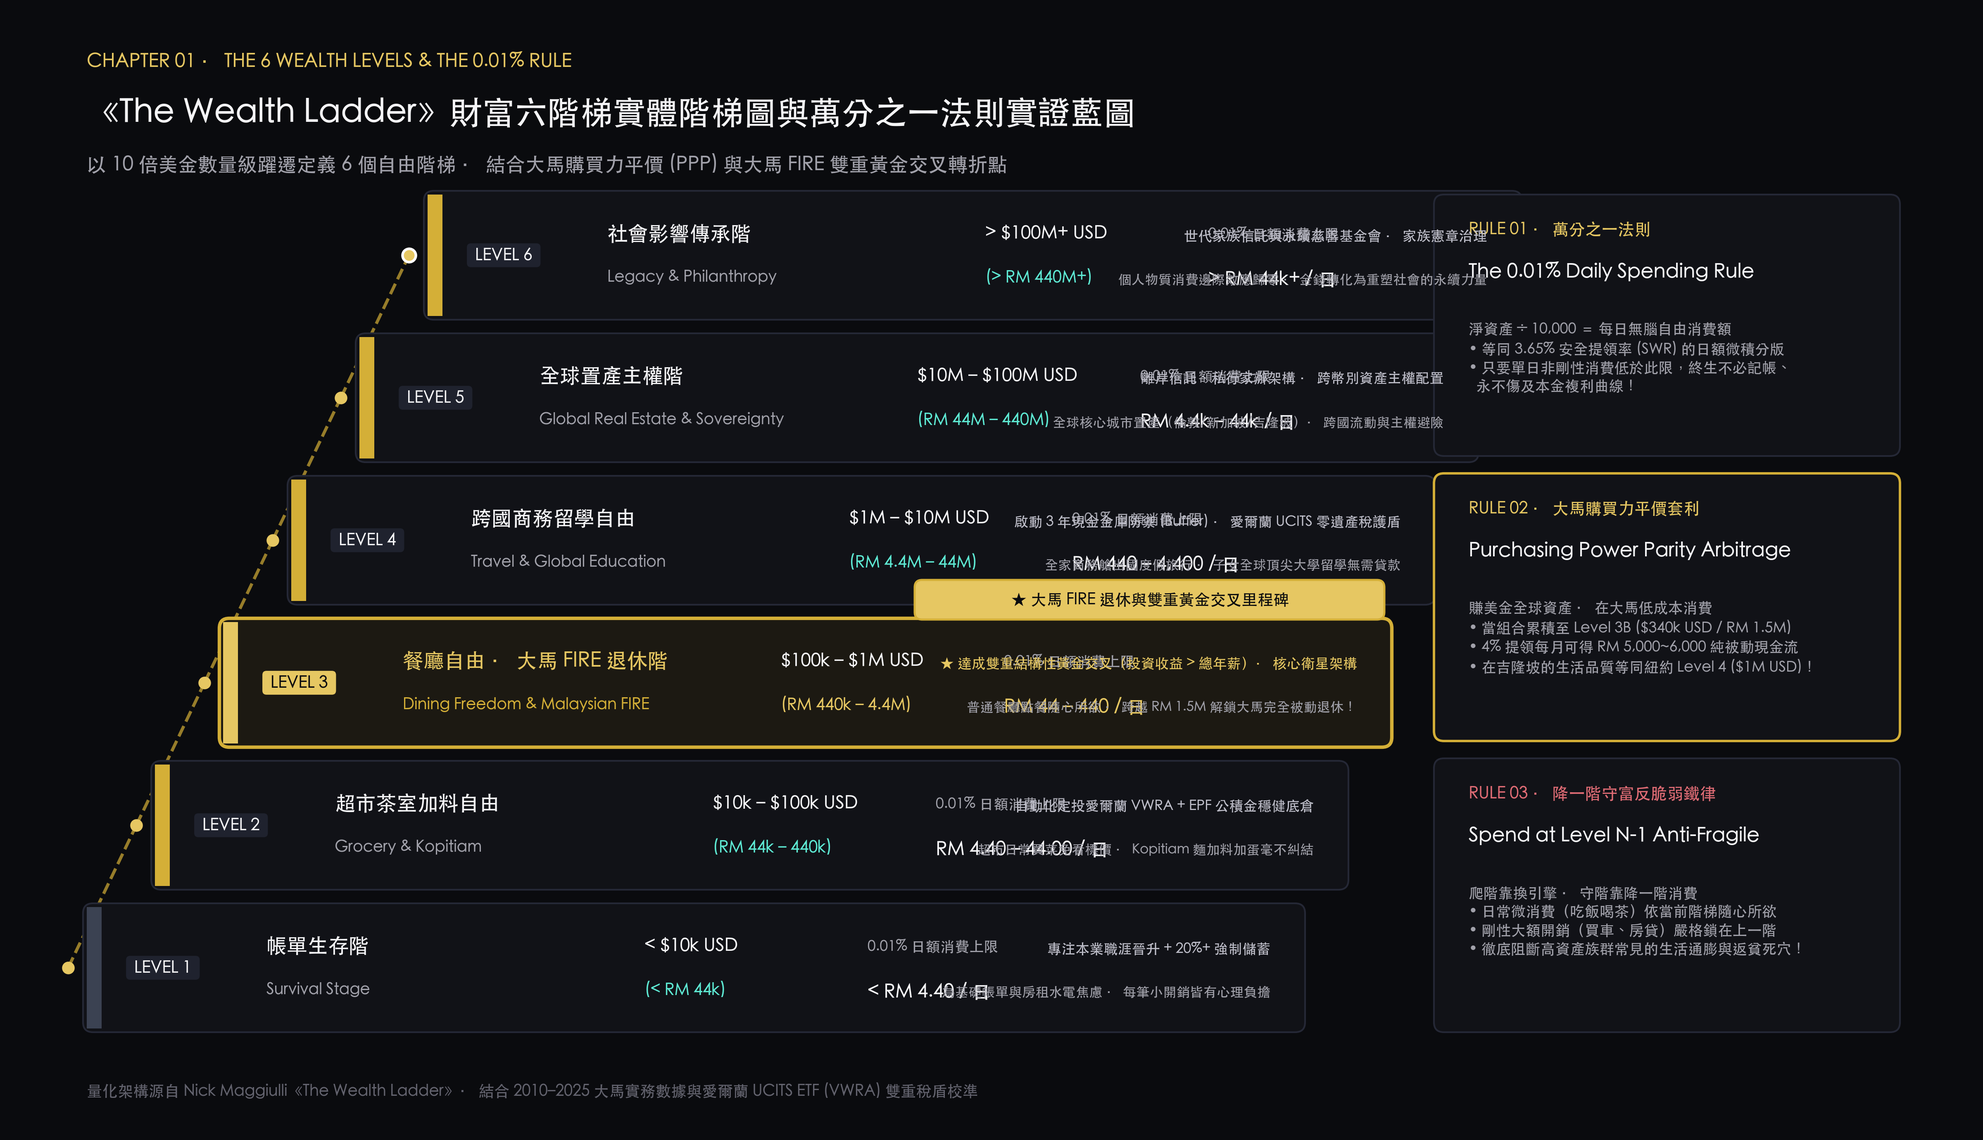
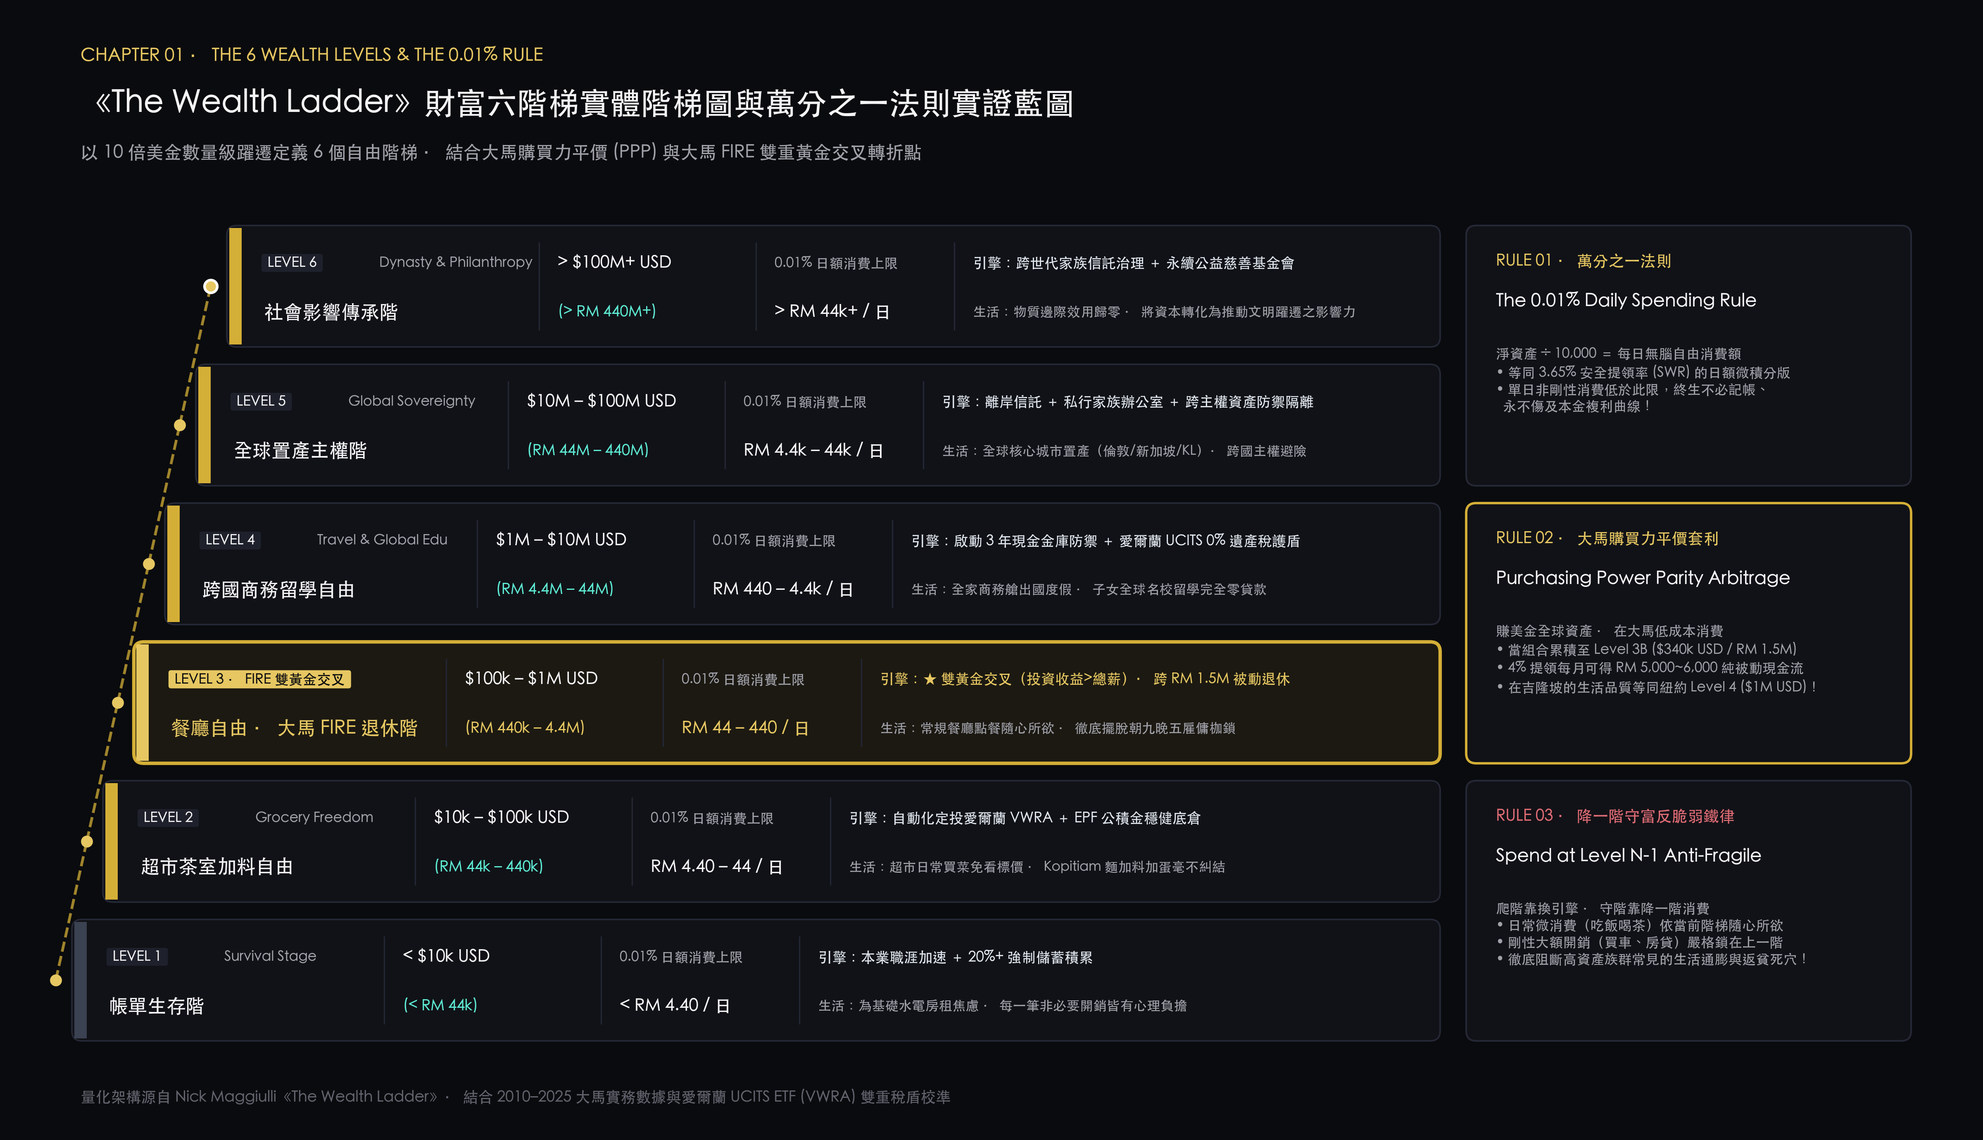
fix(charts): resolve all text overlaps and coordinate collisions in wealth ladder chart 00

Changed region(s): [[0.0312, 0.0312, 0.9688, 0.9659], [0.3125, 0.8725, 0.3438, 0.9036]]

diff --git a/generate_charts.py b/generate_charts.py
@@ -103,218 +103,194 @@ def generate_chart_00():
     ax.axis("off")
 
     # 1. Editorial Header
-    ax.text(0.7, 8.65, "CHAPTER 01 · THE 6 WEALTH LEVELS & THE 0.01% RULE", color=EMERALD_LIGHT, fontsize=11, fontweight="bold")
-    ax.text(0.7, 8.20, "《The Wealth Ladder》財富六階梯實體階梯圖與萬分之一法則實證藍圖", color=TEXT_MAIN, fontsize=19, fontweight="bold")
-    ax.text(0.7, 7.82, "以 10 倍美金數量級躍遷定義 6 個自由階梯 · 結合大馬購買力平價 (PPP) 與大馬 FIRE 雙重黃金交叉轉折點", color=TEXT_MUTED, fontsize=11.5)
+    ax.text(0.65, 8.70, "CHAPTER 01 · THE 6 WEALTH LEVELS & THE 0.01% RULE", color=EMERALD_LIGHT, fontsize=10.5, fontweight="bold")
+    ax.text(0.65, 8.28, "《The Wealth Ladder》財富六階梯實體階梯圖與萬分之一法則實證藍圖", color=TEXT_MAIN, fontsize=18, fontweight="bold")
+    ax.text(0.65, 7.92, "以 10 倍美金數量級躍遷定義 6 個自由階梯 · 結合大馬購買力平價 (PPP) 與大馬 FIRE 雙重黃金交叉轉折點", color=TEXT_MUTED, fontsize=10.5)
 
     # 2. Six Stepped Horizontal Terraces (Grand Ascending Staircase)
-    steps_data = [
+    steps = [
         {
-            "num": "LEVEL 1",
-            "title_zh": "帳單生存階",
-            "title_en": "Survival Stage",
-            "usd": "< $10k USD",
-            "myr": "< RM 44k",
+            "badge": "LEVEL 1",
+            "title_zh": "帳單生存階", "title_en": "Survival Stage",
+            "usd": "< $10k USD", "myr": "< RM 44k",
             "daily": "< RM 4.40 / 日",
-            "lifestyle": "為基礎帳單與房租水電焦慮 · 每筆小開銷皆有心理負擔",
-            "engine": "專注本業職涯晉升 + 20%+ 強制儲蓄",
-            "pitfall": "忌本金小時天天看盤當沖賭翻倍",
-            "y": 0.90, "x_start": 0.70, "width": 9.8,
-            "is_l3": False
+            "engine": "本業職涯加速 ＋ 20%+ 強制儲蓄積累",
+            "lifestyle": "為基礎水電房租焦慮 · 每一筆非必要開銷皆有心理負擔",
+            "x0": 0.60, "y0": 0.82, "w": 11.00, "is_l3": False
         },
         {
-            "num": "LEVEL 2",
-            "title_zh": "超市茶室加料自由",
-            "title_en": "Grocery & Kopitiam",
-            "usd": "$10k – $100k USD",
-            "myr": "RM 44k – 440k",
-            "daily": "RM 4.40 – 44.00 / 日",
+            "badge": "LEVEL 2",
+            "title_zh": "超市茶室加料自由", "title_en": "Grocery Freedom",
+            "usd": "$10k – $100k USD", "myr": "RM 44k – 440k",
+            "daily": "RM 4.40 – 44 / 日",
+            "engine": "自動化定投愛爾蘭 VWRA ＋ EPF 公積金穩健底倉",
             "lifestyle": "超市日常買菜免看標價 · Kopitiam 麵加料加蛋毫不糾結",
-            "engine": "自動化定投愛爾蘭 VWRA + EPF 公積金穩健底倉",
-            "pitfall": "忌沉迷高收益資金盤與借貸炒小盤股",
-            "y": 2.05, "x_start": 1.25, "width": 9.6,
-            "is_l3": False
+            "x0": 0.85, "y0": 1.94, "w": 10.75, "is_l3": False
         },
         {
-            "num": "LEVEL 3",
-            "title_zh": "餐廳自由 · 大馬 FIRE 退休階",
-            "title_en": "Dining Freedom & Malaysian FIRE",
-            "usd": "$100k – $1M USD",
-            "myr": "RM 440k – 4.4M",
+            "badge": "LEVEL 3 · FIRE 雙黃金交叉",
+            "title_zh": "餐廳自由 · 大馬 FIRE 退休階", "title_en": "Malaysian FIRE & Dining",
+            "usd": "$100k – $1M USD", "myr": "RM 440k – 4.4M",
             "daily": "RM 44 – 440 / 日",
-            "lifestyle": "普通餐廳點餐隨心所欲 · 跨越 RM 1.5M 解鎖大馬完全被動退休！",
-            "engine": "★ 達成雙重結構性黃金交叉（投資收益 > 總年薪）· 核心衛星架構",
-            "pitfall": "忌過早買豪車豪宅被巨額長期房貸鎖死",
-            "y": 3.20, "x_start": 1.80, "width": 9.4,
-            "is_l3": True
+            "engine": "★ 雙黃金交叉（投資收益>總薪）· 跨 RM 1.5M 被動退休",
+            "lifestyle": "常規餐廳點餐隨心所欲 · 徹底擺脫朝九晚五雇傭枷鎖",
+            "x0": 1.10, "y0": 3.06, "w": 10.50, "is_l3": True
         },
         {
-            "num": "LEVEL 4",
-            "title_zh": "跨國商務留學自由",
-            "title_en": "Travel & Global Education",
-            "usd": "$1M – $10M USD",
-            "myr": "RM 4.4M – 44M",
-            "daily": "RM 440 – 4,400 / 日",
-            "lifestyle": "全家商務艙出國度假旅行 · 子女全球頂尖大學留學無需貸款",
-            "engine": "啟動 3 年現金金庫防禦 (Buffer) · 愛爾蘭 UCITS 零遺產稅護盾",
-            "pitfall": "忌盲目開槓桿重押、熊市恐慌砍在阿呆谷",
-            "y": 4.35, "x_start": 2.35, "width": 9.2,
-            "is_l3": False
+            "badge": "LEVEL 4",
+            "title_zh": "跨國商務留學自由", "title_en": "Travel & Global Edu",
+            "usd": "$1M – $10M USD", "myr": "RM 4.4M – 44M",
+            "daily": "RM 440 – 4.4k / 日",
+            "engine": "啟動 3 年現金金庫防禦 ＋ 愛爾蘭 UCITS 0% 遺產稅護盾",
+            "lifestyle": "全家商務艙出國度假 · 子女全球名校留學完全零貸款",
+            "x0": 1.35, "y0": 4.18, "w": 10.25, "is_l3": False
         },
         {
-            "num": "LEVEL 5",
-            "title_zh": "全球置產主權階",
-            "title_en": "Global Real Estate & Sovereignty",
-            "usd": "$10M – $100M USD",
-            "myr": "RM 44M – 440M",
+            "badge": "LEVEL 5",
+            "title_zh": "全球置產主權階", "title_en": "Global Sovereignty",
+            "usd": "$10M – $100M USD", "myr": "RM 44M – 440M",
             "daily": "RM 4.4k – 44k / 日",
-            "lifestyle": "全球核心城市置產（倫敦/新加坡/吉隆坡）· 跨國流動與主權避險",
-            "engine": "離岸信託、私行家辦架構 · 跨幣別資產主權配置",
-            "pitfall": "忌盲目投資親友未上市實體專案爆雷",
-            "y": 5.50, "x_start": 2.90, "width": 9.0,
-            "is_l3": False
+            "engine": "離岸信託 ＋ 私行家族辦公室 ＋ 跨主權資產防禦隔離",
+            "lifestyle": "全球核心城市置產（倫敦/新加坡/KL）· 跨國主權避險",
+            "x0": 1.60, "y0": 5.30, "w": 10.00, "is_l3": False
         },
         {
-            "num": "LEVEL 6",
-            "title_zh": "社會影響傳承階",
-            "title_en": "Legacy & Philanthropy",
-            "usd": "> $100M+ USD",
-            "myr": "> RM 440M+",
+            "badge": "LEVEL 6",
+            "title_zh": "社會影響傳承階", "title_en": "Dynasty & Philanthropy",
+            "usd": "> $100M+ USD", "myr": "> RM 440M+",
             "daily": "> RM 44k+ / 日",
-            "lifestyle": "個人物質消費邊際效應歸零 · 金錢轉化為重塑社會的永續力量",
-            "engine": "世代家族信託與永續慈善基金會 · 家族憲章治理",
-            "pitfall": "忌缺乏家族憲章導致遺產爭端富不過三代",
-            "y": 6.65, "x_start": 3.45, "width": 8.8,
-            "is_l3": False
+            "engine": "跨世代家族信託治理 ＋ 永續公益慈善基金會",
+            "lifestyle": "物質邊際效用歸零 · 將資本轉化為推動文明躍遷之影響力",
+            "x0": 1.85, "y0": 6.42, "w": 9.75, "is_l3": False
         }
     ]
 
-    card_height = 0.98
+    card_h = 0.94
 
-    for s in steps_data:
-        x0 = s["x_start"]
-        y0 = s["y"]
-        w = s["width"]
-        is_l3 = s["is_l3"]
-
+    for s in steps:
+        x0, y0, w, is_l3 = s["x0"], s["y0"], s["w"], s["is_l3"]
         fc = BG_CARD_L3 if is_l3 else BG_CARD
         ec = EMERALD if is_l3 else "#252836"
-        lw = 2.0 if is_l3 else 1.0
+        lw = 2.0 if is_l3 else 0.9
 
+        # Card background
         rect = patches.FancyBboxPatch(
-            (x0, y0), w, card_height,
-            boxstyle="round,pad=0.03,rounding_size=0.08",
+            (x0, y0), w, card_h,
+            boxstyle="round,pad=0.02,rounding_size=0.08",
             facecolor=fc, edgecolor=ec, linewidth=lw, zorder=2
         )
         ax.add_patch(rect)
 
-        accent_color = EMERALD_LIGHT if is_l3 else ("#3b4252" if s["num"] == "LEVEL 1" else EMERALD)
+        # Accent left border bar
         accent_bar = patches.Rectangle(
-            (x0, y0), 0.12, card_height,
-            facecolor=accent_color, edgecolor="none", zorder=3
+            (x0, y0), 0.10, card_h,
+            facecolor=EMERALD_LIGHT if is_l3 else ("#3b4252" if s["badge"] == "LEVEL 1" else EMERALD),
+            edgecolor="none", zorder=3
         )
         ax.add_patch(accent_bar)
 
-        badge_bg = EMERALD_LIGHT if is_l3 else "#1f222e"
+        # Column 1: Stage Identity & Level (x0 + 0.28 to x0 + 2.45)
+        badge_bg = EMERALD_LIGHT if is_l3 else "#1e212b"
         badge_fg = "#0a0b0e" if is_l3 else TEXT_MAIN
+        badge_w = 0.85 if not is_l3 else 1.95
+
         ax.text(
-            x0 + 0.35, y0 + card_height / 2.0,
-            f" {s['num']} ",
-            color=badge_fg, fontsize=9.5, fontweight="bold",
+            x0 + 0.28, y0 + card_h * 0.70,
+            f" {s['badge']} ",
+            color=badge_fg, fontsize=8.2, fontweight="bold",
             ha="left", va="center",
-            bbox=dict(boxstyle="round,pad=0.25", facecolor=badge_bg, edgecolor="none"),
+            bbox=dict(boxstyle="round,pad=0.18", facecolor=badge_bg, edgecolor="none"),
             zorder=4
         )
+        if not is_l3:
+            ax.text(x0 + 0.28 + badge_w + 0.08, y0 + card_h * 0.70, s["title_en"], color=TEXT_MUTED, fontsize=8.0, ha="left", va="center", zorder=4)
 
-        title_fg = EMERALD_LIGHT if is_l3 else TEXT_MAIN
-        ax.text(x0 + 1.45, y0 + card_height * 0.68, s["title_zh"], color=title_fg, fontsize=12.0, fontweight="bold", ha="left", va="center", zorder=4)
-        ax.text(x0 + 1.45, y0 + card_height * 0.32, s["title_en"], color=EMERALD if is_l3 else TEXT_MUTED, fontsize=9.0, ha="left", va="center", zorder=4)
+        # Bottom of Col 1: Chinese Title
+        title_color = EMERALD_LIGHT if is_l3 else TEXT_MAIN
+        ax.text(x0 + 0.28, y0 + card_h * 0.28, s["title_zh"], color=title_color, fontsize=11.2, fontweight="bold", ha="left", va="center", zorder=4)
 
-        nw_x = x0 + 4.5
-        ax.text(nw_x, y0 + card_height * 0.68, s["usd"], color=TEXT_MAIN, fontsize=10.5, fontweight="bold", ha="left", va="center", zorder=4)
-        ax.text(nw_x, y0 + card_height * 0.32, f"({s['myr']})", color=EMERALD_LIGHT if is_l3 else CYAN, fontsize=9.5, ha="left", va="center", zorder=4)
+        # Divider 1
+        ax.plot([x0 + 2.50, x0 + 2.50], [y0 + 0.12, y0 + card_h - 0.12], color="#232634", lw=0.8, zorder=3)
 
-        daily_x = x0 + 6.3
-        ax.text(daily_x, y0 + card_height * 0.68, "0.01% 日額消費上限", color=TEXT_MUTED, fontsize=8.5, ha="left", va="center", zorder=4)
-        ax.text(daily_x, y0 + card_height * 0.30, s["daily"], color=EMERALD_LIGHT if is_l3 else TEXT_MAIN, fontsize=11.0, fontweight="bold", ha="left", va="center", zorder=4)
+        # Column 2: Net Worth Thresholds (x0 + 2.65 to x0 + 4.15)
+        ax.text(x0 + 2.65, y0 + card_h * 0.70, s["usd"], color=TEXT_MAIN, fontsize=9.8, fontweight="bold", ha="left", va="center", zorder=4)
+        ax.text(x0 + 2.65, y0 + card_h * 0.28, f"({s['myr']})", color=EMERALD_LIGHT if is_l3 else CYAN, fontsize=8.8, fontweight="bold", ha="left", va="center", zorder=4)
 
-        strat_x = x0 + w - 0.25
-        ax.text(strat_x, y0 + card_height * 0.66, s["engine"], color=EMERALD_LIGHT if is_l3 else "#c0c0cb", fontsize=8.2, ha="right", va="center", zorder=4)
-        ax.text(strat_x, y0 + card_height * 0.30, s["lifestyle"], color=TEXT_MUTED, fontsize=7.8, ha="right", va="center", zorder=4)
+        # Divider 2
+        ax.plot([x0 + 4.25, x0 + 4.25], [y0 + 0.12, y0 + card_h - 0.12], color="#232634", lw=0.8, zorder=3)
 
-        if is_l3:
-            crown_box = patches.FancyBboxPatch(
-                (x0 + w - 3.8, y0 + card_height + 0.04), 3.75, 0.28,
-                boxstyle="round,pad=0.02,rounding_size=0.06",
-                facecolor=EMERALD_LIGHT, edgecolor=EMERALD, linewidth=1.2, zorder=5
-            )
-            ax.add_patch(crown_box)
-            ax.text(
-                x0 + w - 1.92, y0 + card_height + 0.18,
-                "★ 大馬 FIRE 退休與雙重黃金交叉里程碑",
-                color="#0a0b0e", fontsize=9.2, fontweight="bold", ha="center", va="center", zorder=6
-            )
+        # Column 3: 0.01% Daily Spending Rule (x0 + 4.40 to x0 + 5.75)
+        ax.text(x0 + 4.40, y0 + card_h * 0.70, "0.01% 日額消費上限", color=TEXT_MUTED, fontsize=8.0, ha="left", va="center", zorder=4)
+        ax.text(x0 + 4.40, y0 + card_h * 0.28, s["daily"], color=EMERALD_LIGHT if is_l3 else TEXT_MAIN, fontsize=10.0, fontweight="bold", ha="left", va="center", zorder=4)
+
+        # Divider 3
+        ax.plot([x0 + 5.85, x0 + 5.85], [y0 + 0.12, y0 + card_h - 0.12], color="#232634", lw=0.8, zorder=3)
+
+        # Column 4: Engine & Lifestyle (x0 + 6.00 to x0 + w - 0.20)
+        engine_color = EMERALD_LIGHT if is_l3 else "#e2e8f0"
+        ax.text(x0 + 6.00, y0 + card_h * 0.70, f"引擎：{s['engine']}", color=engine_color, fontsize=8.3, fontweight="bold" if is_l3 else "normal", ha="left", va="center", zorder=4)
+        ax.text(x0 + 6.00, y0 + card_h * 0.28, f"生活：{s['lifestyle']}", color=TEXT_MUTED, fontsize=7.8, ha="left", va="center", zorder=4)
 
     # 3. Connecting Staircase Guideline Arrow on Left
-    arrow_pts_x = [s["x_start"] - 0.15 for s in steps_data]
-    arrow_pts_y = [s["y"] + card_height / 2.0 for s in steps_data]
-    for i in range(len(steps_data) - 1):
+    arrow_pts_x = [s["x0"] - 0.15 for s in steps]
+    arrow_pts_y = [s["y0"] + card_h / 2.0 for s in steps]
+    for i in range(len(steps) - 1):
         ax.plot(
             [arrow_pts_x[i], arrow_pts_x[i+1]],
             [arrow_pts_y[i], arrow_pts_y[i+1]],
-            color=EMERALD, linestyle="--", linewidth=1.8, alpha=0.7, zorder=1
+            color=EMERALD, linestyle="--", linewidth=1.6, alpha=0.75, zorder=1
         )
-        ax.scatter([arrow_pts_x[i]], [arrow_pts_y[i]], color=EMERALD_LIGHT, s=40, zorder=3)
-    ax.scatter([arrow_pts_x[-1]], [arrow_pts_y[-1]], color=EMERALD_LIGHT, s=60, edgecolors="white", linewidth=1.5, zorder=3)
+        ax.scatter([arrow_pts_x[i]], [arrow_pts_y[i]], color=EMERALD_LIGHT, s=35, zorder=3)
+    ax.scatter([arrow_pts_x[-1]], [arrow_pts_y[-1]], color=EMERALD_LIGHT, s=55, edgecolors="white", linewidth=1.5, zorder=3)
 
-    # 4. Right Sidebar: 3 Keynote Architecture Pillar Cards (x=11.6 to 15.4)
-    sb_x = 11.6
-    sb_w = 3.7
+    # 4. Right Sidebar: 3 Keynote Architecture Pillar Cards (x=11.85 to 15.40, w=3.55)
+    sb_x = 11.85
+    sb_w = 3.55
 
-    card1 = patches.FancyBboxPatch((sb_x, 5.55), sb_w, 2.05, boxstyle="round,pad=0.03,rounding_size=0.08", facecolor=BG_CARD, edgecolor="#252836", linewidth=1.0, zorder=2)
+    card1 = patches.FancyBboxPatch((sb_x, 5.30), sb_w, 2.06, boxstyle="round,pad=0.02,rounding_size=0.08", facecolor=BG_CARD, edgecolor="#252836", linewidth=1.0, zorder=2)
     ax.add_patch(card1)
-    ax.text(sb_x + 0.25, 7.30, "RULE 01 · 萬分之一法則", color=EMERALD_LIGHT, fontsize=9.5, fontweight="bold", zorder=3)
-    ax.text(sb_x + 0.25, 6.95, "The 0.01% Daily Spending Rule", color=TEXT_MAIN, fontsize=11.5, fontweight="bold", zorder=3)
+    ax.text(sb_x + 0.22, 7.05, "RULE 01 · 萬分之一法則", color=EMERALD_LIGHT, fontsize=9.2, fontweight="bold", zorder=3)
+    ax.text(sb_x + 0.22, 6.72, "The 0.01% Daily Spending Rule", color=TEXT_MAIN, fontsize=10.5, fontweight="bold", zorder=3)
     ax.text(
-        sb_x + 0.25, 6.60,
+        sb_x + 0.22, 6.40,
         "淨資產 ÷ 10,000 ＝ 每日無腦自由消費額\n"
         "• 等同 3.65% 安全提領率 (SWR) 的日額微積分版\n"
-        "• 只要單日非剛性消費低於此限，終生不必記帳、\n"
+        "• 單日非剛性消費低於此限，終生不必記帳、\n"
         "  永不傷及本金複利曲線！",
-        color=TEXT_MUTED, fontsize=8.6, va="top", linespacing=1.35, zorder=3
+        color=TEXT_MUTED, fontsize=8.0, va="top", linespacing=1.35, zorder=3
     )
 
-    card2 = patches.FancyBboxPatch((sb_x, 3.25), sb_w, 2.10, boxstyle="round,pad=0.03,rounding_size=0.08", facecolor=BG_CARD, edgecolor=EMERALD, linewidth=1.4, zorder=2)
+    card2 = patches.FancyBboxPatch((sb_x, 3.06), sb_w, 2.06, boxstyle="round,pad=0.02,rounding_size=0.08", facecolor=BG_CARD, edgecolor=EMERALD, linewidth=1.4, zorder=2)
     ax.add_patch(card2)
-    ax.text(sb_x + 0.25, 5.05, "RULE 02 · 大馬購買力平價套利", color=EMERALD_LIGHT, fontsize=9.5, fontweight="bold", zorder=3)
-    ax.text(sb_x + 0.25, 4.70, "Purchasing Power Parity Arbitrage", color=TEXT_MAIN, fontsize=11.5, fontweight="bold", zorder=3)
+    ax.text(sb_x + 0.22, 4.81, "RULE 02 · 大馬購買力平價套利", color=EMERALD_LIGHT, fontsize=9.2, fontweight="bold", zorder=3)
+    ax.text(sb_x + 0.22, 4.48, "Purchasing Power Parity Arbitrage", color=TEXT_MAIN, fontsize=10.5, fontweight="bold", zorder=3)
     ax.text(
-        sb_x + 0.25, 4.35,
+        sb_x + 0.22, 4.16,
         "賺美金全球資產 · 在大馬低成本消費\n"
         "• 當組合累積至 Level 3B ($340k USD / RM 1.5M)\n"
         "• 4% 提領每月可得 RM 5,000~6,000 純被動現金流\n"
         "• 在吉隆坡的生活品質等同紐約 Level 4 ($1M USD)！",
-        color=TEXT_MUTED, fontsize=8.6, va="top", linespacing=1.35, zorder=3
+        color=TEXT_MUTED, fontsize=8.0, va="top", linespacing=1.35, zorder=3
     )
 
-    card3 = patches.FancyBboxPatch((sb_x, 0.90), sb_w, 2.15, boxstyle="round,pad=0.03,rounding_size=0.08", facecolor=BG_CARD, edgecolor="#252836", linewidth=1.0, zorder=2)
+    card3 = patches.FancyBboxPatch((sb_x, 0.82), sb_w, 2.06, boxstyle="round,pad=0.02,rounding_size=0.08", facecolor=BG_CARD, edgecolor="#252836", linewidth=1.0, zorder=2)
     ax.add_patch(card3)
-    ax.text(sb_x + 0.25, 2.75, "RULE 03 · 降一階守富反脆弱鐵律", color=ROSE, fontsize=9.5, fontweight="bold", zorder=3)
-    ax.text(sb_x + 0.25, 2.40, "Spend at Level N-1 Anti-Fragile", color=TEXT_MAIN, fontsize=11.5, fontweight="bold", zorder=3)
+    ax.text(sb_x + 0.22, 2.57, "RULE 03 · 降一階守富反脆弱鐵律", color=ROSE, fontsize=9.2, fontweight="bold", zorder=3)
+    ax.text(sb_x + 0.22, 2.24, "Spend at Level N-1 Anti-Fragile", color=TEXT_MAIN, fontsize=10.5, fontweight="bold", zorder=3)
     ax.text(
-        sb_x + 0.25, 2.05,
+        sb_x + 0.22, 1.92,
         "爬階靠換引擎 · 守階靠降一階消費\n"
         "• 日常微消費（吃飯喝茶）依當前階梯隨心所欲\n"
         "• 剛性大額開銷（買車、房貸）嚴格鎖在上一階\n"
         "• 徹底阻斷高資產族群常見的生活通膨與返貧死穴！",
-        color=TEXT_MUTED, fontsize=8.6, va="top", linespacing=1.35, zorder=3
+        color=TEXT_MUTED, fontsize=8.0, va="top", linespacing=1.35, zorder=3
     )
 
     # 5. Bottom Monograph Footer Bar
     ax.text(
-        0.7, 0.40,
+        0.65, 0.35,
         "量化架構源自 Nick Maggiulli《The Wealth Ladder》· 結合 2010–2025 大馬實務數據與愛爾蘭 UCITS ETF (VWRA) 雙重稅盾校準",
-        color=TEXT_DIM, fontsize=9.0, ha="left", va="center"
+        color=TEXT_DIM, fontsize=8.8, ha="left", va="center"
     )
 
     out_path = os.path.join(OUTPUT_DIR, "00_wealth_ladder_staircase.png")
